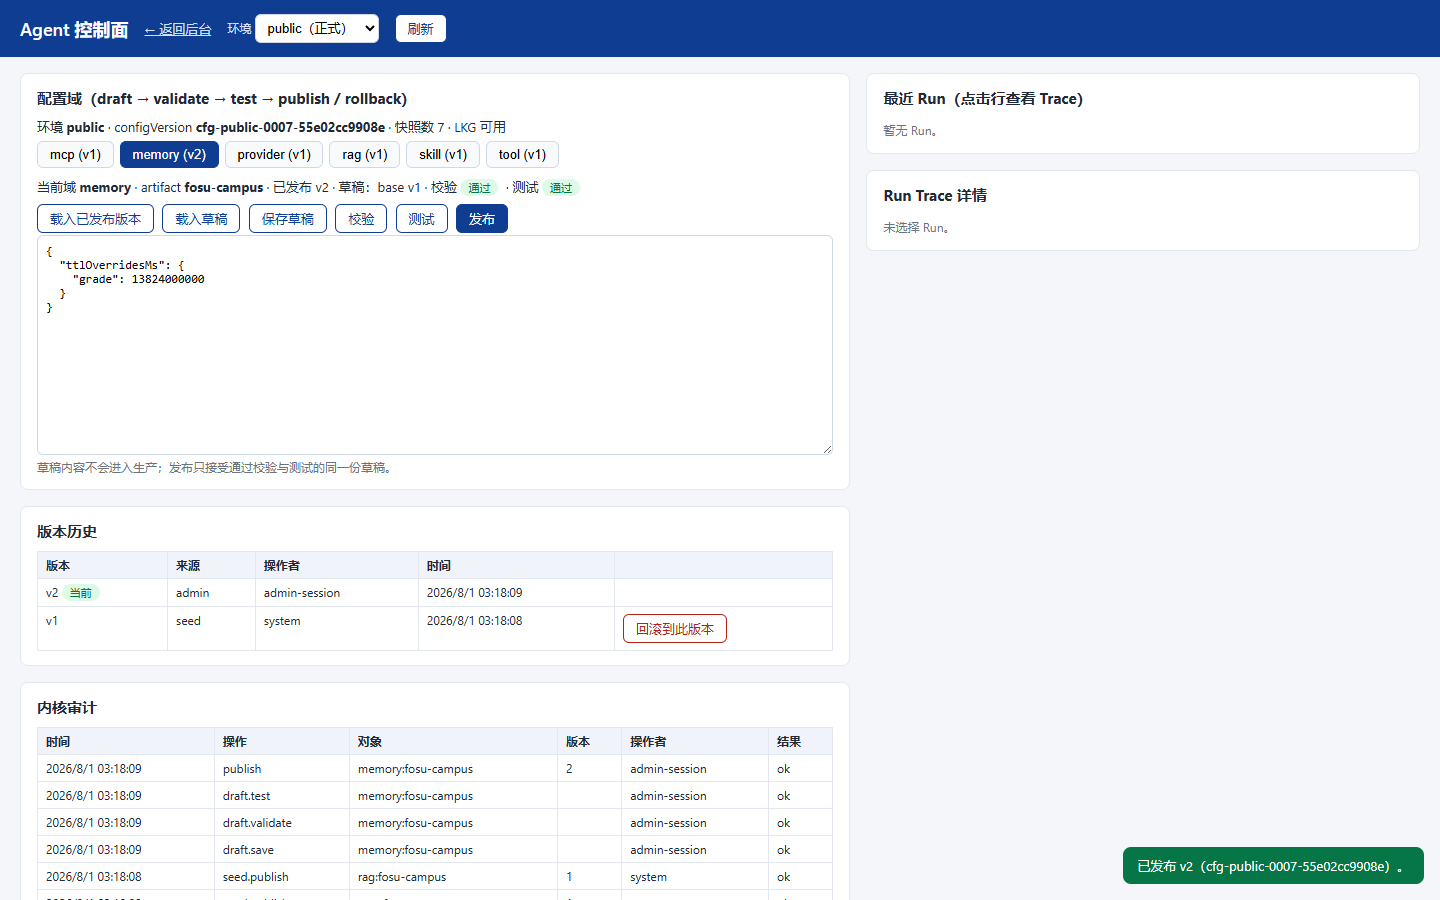
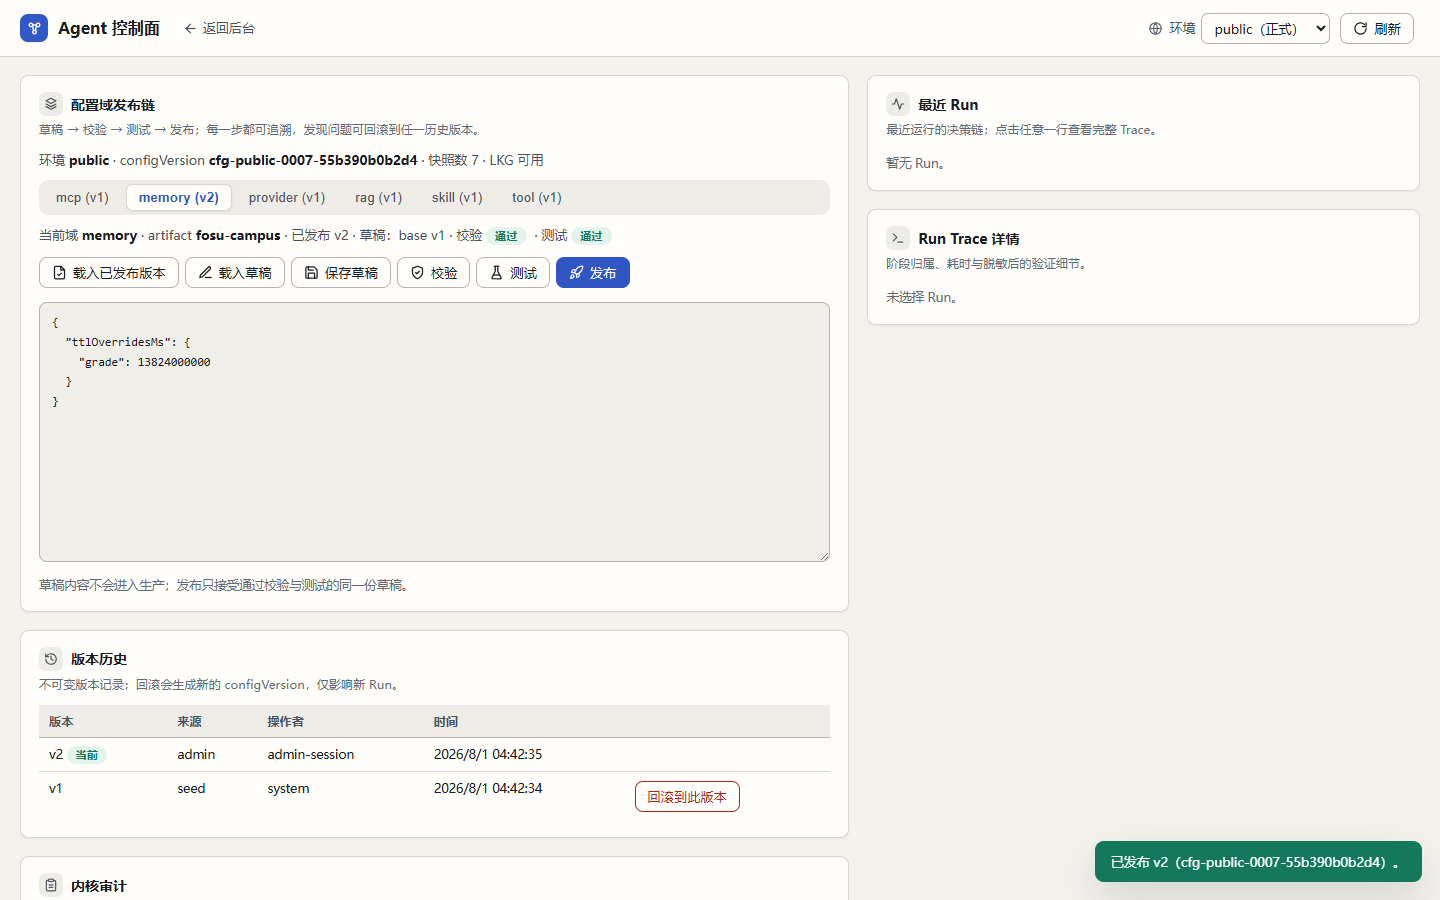
feat(agent): polish agent control plane UI with legacy visual tokens
Redesign of apps/agent-admin/public/agent-platform.html guided by the local frontend-design / open-design skills: warm-paper tokens ported from the legacy admin, sticky top bar with an SVG brand mark, 15 inline SVG icons replacing all emoji, segmented domain tabs, three-state buttons, hover-to-pause toasts (WCAG 2.2.1, the only JS behavior change), aria/letter-spacing/accent discipline. All element IDs, JS logic and fetch paths unchanged. Verified by test:agent-config-plane-browser (publish -> new run bound -> rollback, real browser, PASS inside full gates) and real-harness screenshots at 1440/390. Governance §14 records the mandatory UI design-skill rule. Evidence PNGs refreshed by the p4e browser test run.

diff --git a/apps/agent-admin/public/agent-platform.html b/apps/agent-admin/public/agent-platform.html
@@ -6,89 +6,175 @@
 <title>Agent 控制面</title>
 <script src="runtime-config.js"></script>
 <style>
-  :root { color-scheme: light; }
+  :root {
+    color-scheme: light;
+    --page-bg: #f4f2ed;
+    --surface: #fbfaf7;
+    --surface-raised: #fffefa;
+    --surface-muted: #eeece6;
+    --border: #d9d5cc;
+    --border-strong: #b8b2a7;
+    --text-primary: #181b20;
+    --text-secondary: #4b515b;
+    --text-muted: #626a75;
+    --primary: #3158c7;
+    --primary-hover: #2447a9;
+    --primary-soft: #e7ecfb;
+    --on-primary: #ffffff;
+    --success: #14795a;
+    --success-soft: #e5f3ed;
+    --warning: #9a5d08;
+    --warning-soft: #f8edd9;
+    --danger: #b42318;
+    --danger-soft: #f8e6e3;
+    --shadow: 0 1px 2px rgba(31, 28, 23, 0.06);
+    --shadow-lg: 0 18px 42px rgba(31, 28, 23, 0.16);
+    --code-bg: #f0eee8;
+    --table-hover: #f0f3fb;
+    --focus-ring: rgba(49, 88, 199, 0.3);
+    --radius: 9px;
+    --font-family: Inter, "SF Pro Text", "PingFang SC", "Microsoft YaHei", "Noto Sans CJK SC", ui-sans-serif, system-ui, -apple-system, BlinkMacSystemFont, "Segoe UI", sans-serif;
+    --font-mono: "SFMono-Regular", Consolas, "Liberation Mono", Menlo, "Courier New", monospace;
+    --transition: color 180ms cubic-bezier(0.4, 0, 0.2, 1), background-color 180ms cubic-bezier(0.4, 0, 0.2, 1), border-color 180ms cubic-bezier(0.4, 0, 0.2, 1), box-shadow 180ms cubic-bezier(0.4, 0, 0.2, 1);
+  }
   * { box-sizing: border-box; }
-  body { margin: 0; font-family: "Segoe UI", "Microsoft YaHei", sans-serif; background: #f4f6fa; color: #1f2937; }
-  header { background: #0f3d91; color: #fff; padding: 12px 20px; display: flex; align-items: center; gap: 16px; flex-wrap: wrap; }
-  header h1 { font-size: 18px; margin: 0; font-weight: 600; }
-  header a { color: #cfe0ff; font-size: 13px; }
-  header select { margin-left: auto; }
-  main { padding: 16px 20px; display: grid; grid-template-columns: minmax(0, 3fr) minmax(0, 2fr); gap: 16px; }
+  body { margin: 0; font-family: var(--font-family); background: var(--page-bg); color: var(--text-primary); line-height: 1.5; }
+  ::selection { background: var(--primary-soft); color: var(--text-primary); }
+  ::-webkit-scrollbar { width: 10px; height: 10px; }
+  ::-webkit-scrollbar-track { background: var(--surface-muted); }
+  ::-webkit-scrollbar-thumb { background: var(--border-strong); border: 2px solid var(--surface-muted); border-radius: 999px; }
+  :focus-visible { outline: 2px solid var(--primary); outline-offset: 2px; }
+  @media (prefers-reduced-motion: reduce) {
+    *, *::before, *::after {
+      animation-duration: 0.01ms !important;
+      animation-iteration-count: 1 !important;
+      scroll-behavior: auto !important;
+      transition-duration: 0.01ms !important;
+    }
+  }
+  .icon { width: 15px; height: 15px; flex: none; }
+
+  header { position: sticky; top: 0; z-index: 5; background: var(--surface-raised); border-bottom: 1px solid var(--border); padding: 0 20px; min-height: 57px; display: flex; align-items: center; gap: 14px; flex-wrap: wrap; }
+  .brand { display: flex; align-items: center; gap: 10px; padding: 10px 0; }
+  .brand-mark { width: 28px; height: 28px; border-radius: 8px; background: var(--primary); color: var(--on-primary); display: inline-flex; align-items: center; justify-content: center; box-shadow: var(--shadow); }
+  .brand-mark svg { width: 17px; height: 17px; }
+  header h1 { font-size: 16px; margin: 0; font-weight: 600; }
+  .nav-link { display: inline-flex; align-items: center; gap: 5px; color: var(--text-secondary); font-size: 13px; text-decoration: none; padding: 5px 9px; border-radius: 7px; transition: var(--transition); }
+  .nav-link:hover { color: var(--primary); background: var(--primary-soft); }
+  .header-actions { margin-left: auto; display: flex; align-items: center; gap: 10px; flex-wrap: wrap; padding: 8px 0; }
+  .env-label { display: inline-flex; align-items: center; gap: 6px; font-size: 13px; color: var(--text-secondary); }
+  .env-label .icon { color: var(--text-muted); }
+
+  main { padding: 18px 20px 28px; max-width: 1480px; margin: 0 auto; display: grid; grid-template-columns: minmax(0, 3fr) minmax(0, 2fr); gap: 18px; }
   @media (max-width: 1100px) { main { grid-template-columns: 1fr; } }
-  section { background: #fff; border: 1px solid #e3e8f0; border-radius: 8px; padding: 14px 16px; margin-bottom: 16px; }
-  h2 { font-size: 15px; margin: 0 0 10px; }
-  .tabs { display: flex; gap: 6px; flex-wrap: wrap; margin-bottom: 10px; }
-  .tabs button { border: 1px solid #cfd8e6; background: #f8fafc; border-radius: 6px; padding: 5px 12px; cursor: pointer; font-size: 13px; }
-  .tabs button[aria-selected="true"] { background: #0f3d91; color: #fff; border-color: #0f3d91; }
-  button.action { border: 1px solid #0f3d91; background: #fff; color: #0f3d91; border-radius: 6px; padding: 5px 12px; cursor: pointer; font-size: 13px; margin: 2px 4px 2px 0; }
-  button.action.primary { background: #0f3d91; color: #fff; }
-  button.action.danger { border-color: #b42318; color: #b42318; }
-  button.action:disabled { opacity: 0.5; cursor: not-allowed; }
-  textarea { width: 100%; min-height: 220px; font-family: Consolas, "Courier New", monospace; font-size: 12px; border: 1px solid #cfd8e6; border-radius: 6px; padding: 8px; }
-  table { border-collapse: collapse; width: 100%; font-size: 12px; }
-  th, td { border: 1px solid #e3e8f0; padding: 5px 8px; text-align: left; vertical-align: top; }
-  th { background: #f0f4fa; }
-  .muted { color: #6b7280; font-size: 12px; }
-  .status-line { font-size: 13px; margin: 6px 0; }
-  .pill { display: inline-block; border-radius: 999px; padding: 1px 8px; font-size: 11px; background: #e8eefc; color: #0f3d91; margin-right: 4px; }
-  .pill.ok { background: #dcfae6; color: #067647; }
-  .pill.bad { background: #fee4e2; color: #b42318; }
-  #toast { position: fixed; right: 16px; bottom: 16px; max-width: 420px; padding: 10px 14px; border-radius: 8px; color: #fff; font-size: 13px; display: none; z-index: 10; }
-  #toast.success { background: #067647; }
-  #toast.error { background: #b42318; }
-  pre.details { background: #f8fafc; border: 1px solid #e3e8f0; border-radius: 6px; padding: 8px; font-size: 11px; max-height: 260px; overflow: auto; white-space: pre-wrap; word-break: break-all; }
+  @media (max-width: 720px) { main { padding: 14px 12px 24px; } header { padding: 0 12px; } }
+
+  section { background: var(--surface-raised); border: 1px solid var(--border); border-radius: var(--radius); box-shadow: var(--shadow); padding: 16px 18px; margin-bottom: 18px; }
+  h2 { display: flex; align-items: center; gap: 8px; font-size: 14px; font-weight: 600; margin: 0 0 4px; }
+  .h2-icon { display: inline-flex; align-items: center; justify-content: center; width: 24px; height: 24px; border-radius: 7px; background: var(--surface-muted); color: var(--text-secondary); }
+  .h2-icon svg { width: 14px; height: 14px; }
+  .section-desc { font-size: 12px; color: var(--text-muted); margin: 0 0 12px; letter-spacing: 0.01em; }
+
+  .tabs { display: flex; gap: 4px; flex-wrap: wrap; margin-bottom: 10px; padding: 4px; background: var(--surface-muted); border-radius: 10px; }
+  .tabs button { border: 1px solid transparent; background: transparent; border-radius: 7px; padding: 5px 12px; cursor: pointer; font-size: 13px; color: var(--text-secondary); letter-spacing: 0.02em; transition: var(--transition); }
+  .tabs button:hover { color: var(--primary); background: var(--surface-raised); }
+  .tabs button[aria-selected="true"] { background: var(--surface-raised); color: var(--primary); border-color: var(--border); box-shadow: var(--shadow); font-weight: 600; }
+
+  .btn-row { margin: 10px 0 12px; display: flex; flex-wrap: wrap; gap: 2px 0; }
+  button.action { display: inline-flex; align-items: center; gap: 6px; border: 1px solid var(--border-strong); background: var(--surface-raised); color: var(--text-primary); border-radius: 8px; padding: 6px 12px; cursor: pointer; font-size: 13px; font-weight: 500; font-family: var(--font-family); letter-spacing: 0.02em; margin: 2px 6px 2px 0; transition: var(--transition); }
+  button.action:hover { border-color: var(--primary); color: var(--primary); background: var(--primary-soft); }
+  button.action.primary { background: var(--primary); border-color: var(--primary); color: var(--on-primary); }
+  button.action.primary:hover { background: var(--primary-hover); border-color: var(--primary-hover); }
+  button.action.danger { border-color: var(--danger); color: var(--danger); }
+  button.action.danger:hover { background: var(--danger-soft); border-color: var(--danger); color: var(--danger); }
+  button.action:disabled { opacity: 0.55; cursor: not-allowed; }
+
+  textarea { width: 100%; min-height: 260px; font-family: var(--font-mono); font-size: 12px; line-height: 1.65; border: 1px solid var(--border-strong); border-radius: 8px; padding: 10px 12px; background: var(--code-bg); color: var(--text-primary); transition: var(--transition); resize: vertical; }
+  textarea:focus { outline: none; border-color: var(--primary); box-shadow: 0 0 0 3px var(--focus-ring); background: var(--surface-raised); }
+
+  table { border-collapse: collapse; width: 100%; font-size: 12.5px; }
+  th, td { padding: 7px 10px; text-align: left; vertical-align: top; border-bottom: 1px solid var(--border); }
+  tbody tr:last-child td { border-bottom: none; }
+  th { background: var(--surface-muted); color: var(--text-secondary); font-weight: 600; font-size: 12px; letter-spacing: 0.02em; border-bottom: 1px solid var(--border-strong); }
+  td { font-variant-numeric: tabular-nums; }
+  tbody tr { transition: var(--transition); }
+  tbody tr:hover { background: var(--table-hover); }
   .run-row { cursor: pointer; }
-  .run-row:hover { background: #f0f4fa; }
-  select, input[type="text"] { border: 1px solid #cfd8e6; border-radius: 6px; padding: 5px 8px; font-size: 13px; }
+
+  .muted { color: var(--text-muted); font-size: 12.5px; }
+  #editorHint { margin-top: 8px; }
+  .status-line { font-size: 13px; margin: 6px 0 10px; color: var(--text-secondary); }
+  .status-line b { color: var(--text-primary); font-weight: 600; }
+  .pill { display: inline-flex; align-items: center; border-radius: 999px; padding: 1px 9px; font-size: 11px; font-weight: 600; letter-spacing: 0.02em; background: var(--primary-soft); color: var(--primary); margin-right: 4px; }
+  .pill.ok { background: var(--success-soft); color: var(--success); }
+  .pill.bad { background: var(--danger-soft); color: var(--danger); }
+
+  #toast { position: fixed; right: 18px; bottom: 18px; max-width: 420px; padding: 11px 16px; border-radius: var(--radius); color: #fff; font-size: 13px; display: none; z-index: 10; box-shadow: var(--shadow-lg); animation: toast-in 180ms cubic-bezier(0.4, 0, 0.2, 1); }
+  #toast.success { background: var(--success); }
+  #toast.error { background: var(--danger); }
+  @keyframes toast-in { from { opacity: 0; transform: translateY(6px); } to { opacity: 1; transform: translateY(0); } }
+
+  pre.details { background: var(--code-bg); border: 1px solid var(--border); border-radius: 7px; padding: 9px 11px; font-size: 11px; font-family: var(--font-mono); max-height: 260px; overflow: auto; white-space: pre-wrap; word-break: break-all; }
+  select, input[type="text"] { border: 1px solid var(--border-strong); border-radius: 7px; padding: 5px 8px; font-size: 13px; background: var(--surface-raised); color: var(--text-primary); font-family: var(--font-family); transition: var(--transition); }
 </style>
 </head>
 <body>
 <header>
-  <h1>Agent 控制面</h1>
-  <a href="/admin/dashboard" id="dashboardLink">← 返回后台</a>
-  <label class="muted" style="color:#cfe0ff">环境
-    <select id="envSelect">
-      <option value="public">public（正式）</option>
-      <option value="trial">trial（体验）</option>
-      <option value="dev" selected>dev（开发）</option>
-    </select>
-  </label>
-  <button class="action" id="btnRefresh" type="button">刷新</button>
+  <div class="brand">
+    <span class="brand-mark" aria-hidden="true"><svg viewBox="0 0 24 24" fill="none" stroke="currentColor" stroke-width="2" stroke-linecap="round" stroke-linejoin="round"><circle cx="7" cy="7" r="2.4"/><circle cx="17" cy="7" r="2.4"/><circle cx="12" cy="17" r="2.4"/><path d="M9.3 8.3 10.8 15"/><path d="M14.7 8.3 13.2 15"/><path d="M9.4 7h5.2"/></svg></span>
+    <h1>Agent 控制面</h1>
+  </div>
+  <a href="/admin/dashboard" id="dashboardLink" class="nav-link"><svg class="icon" viewBox="0 0 24 24" fill="none" stroke="currentColor" stroke-width="2" stroke-linecap="round" stroke-linejoin="round" aria-hidden="true"><path d="M19 12H5"/><path d="m12 19-7-7 7-7"/></svg>返回后台</a>
+  <div class="header-actions">
+    <label class="env-label" for="envSelect"><svg class="icon" viewBox="0 0 24 24" fill="none" stroke="currentColor" stroke-width="2" stroke-linecap="round" stroke-linejoin="round" aria-hidden="true"><circle cx="12" cy="12" r="9"/><path d="M3 12h18"/><path d="M12 3a14.5 14.5 0 0 0 0 18 14.5 14.5 0 0 0 0-18"/></svg>环境
+      <select id="envSelect">
+        <option value="public">public（正式）</option>
+        <option value="trial">trial（体验）</option>
+        <option value="dev" selected>dev（开发）</option>
+      </select>
+    </label>
+    <button class="action" id="btnRefresh" type="button"><svg class="icon" viewBox="0 0 24 24" fill="none" stroke="currentColor" stroke-width="2" stroke-linecap="round" stroke-linejoin="round" aria-hidden="true"><path d="M21 12a9 9 0 1 1-2.64-6.36"/><path d="M21 3v6h-6"/></svg>刷新</button>
+  </div>
 </header>
 <main>
   <div>
-    <section id="configSection">
-      <h2>配置域（draft → validate → test → publish / rollback）</h2>
+    <section id="configSection" aria-labelledby="h2-config">
+      <h2 id="h2-config"><span class="h2-icon" aria-hidden="true"><svg viewBox="0 0 24 24" fill="none" stroke="currentColor" stroke-width="2" stroke-linecap="round" stroke-linejoin="round"><path d="m12 2 8.5 4.5L12 11 3.5 6.5 12 2z"/><path d="m3.5 12 8.5 4.5 8.5-4.5"/><path d="m3.5 16.5 8.5 4.5 8.5-4.5"/></svg></span>配置域发布链</h2>
+      <p class="section-desc">草稿 → 校验 → 测试 → 发布；每一步都可追溯，发现问题可回滚到任一历史版本。</p>
       <div class="status-line" id="configStatus">加载中…</div>
       <div class="tabs" id="domainTabs" role="tablist"></div>
       <div class="status-line" id="domainStatus"></div>
-      <div>
-        <button class="action" id="btnLoadPublished" type="button">载入已发布版本</button>
-        <button class="action" id="btnLoadDraft" type="button">载入草稿</button>
-        <button class="action" id="btnSaveDraft" type="button">保存草稿</button>
-        <button class="action" id="btnValidate" type="button">校验</button>
-        <button class="action" id="btnTest" type="button">测试</button>
-        <button class="action primary" id="btnPublish" type="button">发布</button>
+      <div class="btn-row">
+        <button class="action" id="btnLoadPublished" type="button"><svg class="icon" viewBox="0 0 24 24" fill="none" stroke="currentColor" stroke-width="2" stroke-linecap="round" stroke-linejoin="round" aria-hidden="true"><path d="M14 2H6a2 2 0 0 0-2 2v16a2 2 0 0 0 2 2h12a2 2 0 0 0 2-2V8z"/><path d="M14 2v6h6"/><path d="m9 15 2 2 4-4"/></svg>载入已发布版本</button>
+        <button class="action" id="btnLoadDraft" type="button"><svg class="icon" viewBox="0 0 24 24" fill="none" stroke="currentColor" stroke-width="2" stroke-linecap="round" stroke-linejoin="round" aria-hidden="true"><path d="M12 20h9"/><path d="M16.5 3.5a2.12 2.12 0 0 1 3 3L7 19l-4 1 1-4Z"/></svg>载入草稿</button>
+        <button class="action" id="btnSaveDraft" type="button"><svg class="icon" viewBox="0 0 24 24" fill="none" stroke="currentColor" stroke-width="2" stroke-linecap="round" stroke-linejoin="round" aria-hidden="true"><path d="M19 21H5a2 2 0 0 1-2-2V5a2 2 0 0 1 2-2h11l5 5v11a2 2 0 0 1-2 2z"/><path d="M17 21v-8H7v8"/><path d="M7 3v5h8"/></svg>保存草稿</button>
+        <button class="action" id="btnValidate" type="button"><svg class="icon" viewBox="0 0 24 24" fill="none" stroke="currentColor" stroke-width="2" stroke-linecap="round" stroke-linejoin="round" aria-hidden="true"><path d="M12 22s8-4 8-10V5l-8-3-8 3v7c0 6 8 10 8 10z"/><path d="m9 12 2 2 4-4"/></svg>校验</button>
+        <button class="action" id="btnTest" type="button"><svg class="icon" viewBox="0 0 24 24" fill="none" stroke="currentColor" stroke-width="2" stroke-linecap="round" stroke-linejoin="round" aria-hidden="true"><path d="M10 2v7.53a2 2 0 0 1-.21.89L4.72 20.55a1 1 0 0 0 .9 1.45h12.76a1 1 0 0 0 .9-1.45l-5.07-10.13a2 2 0 0 1-.21-.89V2"/><path d="M8.5 2h7"/><path d="M7 16h10"/></svg>测试</button>
+        <button class="action primary" id="btnPublish" type="button"><svg class="icon" viewBox="0 0 24 24" fill="none" stroke="currentColor" stroke-width="2" stroke-linecap="round" stroke-linejoin="round" aria-hidden="true"><path d="M4.5 16.5c-1.5 1.26-2 5-2 5s3.74-.5 5-2c.71-.84.7-2.13-.09-2.91a2.18 2.18 0 0 0-2.91-.09z"/><path d="m12 15-3-3a22 22 0 0 1 2-3.95A12.88 12.88 0 0 1 22 2c0 2.72-.78 7.5-6 11a22.35 22.35 0 0 1-4 2z"/><path d="M9 12H4s.55-3.03 2-4c1.62-1.08 5 0 5 0"/><path d="M12 15v5s3.03-.55 4-2c1.08-1.62 0-5 0-5"/></svg>发布</button>
       </div>
-      <textarea id="draftEditor" spellcheck="false" placeholder="{}"></textarea>
+      <textarea id="draftEditor" spellcheck="false" placeholder="{}" aria-label="配置草稿 JSON 编辑器" aria-describedby="editorHint"></textarea>
       <div class="muted" id="editorHint">草稿内容不会进入生产；发布只接受通过校验与测试的同一份草稿。</div>
     </section>
-    <section>
-      <h2>版本历史</h2>
+    <section aria-labelledby="h2-versions">
+      <h2 id="h2-versions"><span class="h2-icon" aria-hidden="true"><svg viewBox="0 0 24 24" fill="none" stroke="currentColor" stroke-width="2" stroke-linecap="round" stroke-linejoin="round"><path d="M3 12a9 9 0 1 0 3-6.7L3 8"/><path d="M3 3v5h5"/><path d="M12 7v5l3.5 2"/></svg></span>版本历史</h2>
+      <p class="section-desc">不可变版本记录；回滚会生成新的 configVersion，仅影响新 Run。</p>
       <div id="versionHistory"><span class="muted">加载中…</span></div>
     </section>
-    <section>
-      <h2>内核审计</h2>
+    <section aria-labelledby="h2-audit">
+      <h2 id="h2-audit"><span class="h2-icon" aria-hidden="true"><svg viewBox="0 0 24 24" fill="none" stroke="currentColor" stroke-width="2" stroke-linecap="round" stroke-linejoin="round"><rect x="8" y="2" width="8" height="4" rx="1"/><path d="M16 4h2a2 2 0 0 1 2 2v14a2 2 0 0 1-2 2H6a2 2 0 0 1-2-2V6a2 2 0 0 1 2-2h2"/><path d="M9 12h6"/><path d="M9 16h6"/></svg></span>内核审计</h2>
+      <p class="section-desc">配置面全部写操作的审计流水（已脱敏）。</p>
       <div id="auditList"><span class="muted">加载中…</span></div>
     </section>
   </div>
   <div>
-    <section>
-      <h2>最近 Run（点击行查看 Trace）</h2>
+    <section aria-labelledby="h2-runs">
+      <h2 id="h2-runs"><span class="h2-icon" aria-hidden="true"><svg viewBox="0 0 24 24" fill="none" stroke="currentColor" stroke-width="2" stroke-linecap="round" stroke-linejoin="round"><path d="M22 12h-4l-3 9L9 3l-3 9H2"/></svg></span>最近 Run</h2>
+      <p class="section-desc">最近运行的决策链；点击任意一行查看完整 Trace。</p>
       <div id="runList"><span class="muted">加载中…</span></div>
     </section>
-    <section>
-      <h2>Run Trace 详情</h2>
+    <section aria-labelledby="h2-trace">
+      <h2 id="h2-trace"><span class="h2-icon" aria-hidden="true"><svg viewBox="0 0 24 24" fill="none" stroke="currentColor" stroke-width="2" stroke-linecap="round" stroke-linejoin="round"><path d="m4 17 6-6-6-6"/><path d="M12 19h8"/></svg></span>Run Trace 详情</h2>
+      <p class="section-desc">阶段归属、耗时与脱敏后的验证细节。</p>
       <div id="runDetail"><span class="muted">未选择 Run。</span></div>
     </section>
   </div>
@@ -122,12 +208,21 @@
 
   function $(id) { return document.getElementById(id); }
 
+  var toastTimer = null;
+  function scheduleToastHide(delay) {
+    if (toastTimer) clearTimeout(toastTimer);
+    toastTimer = setTimeout(function () { $("toast").style.display = "none"; }, delay);
+  }
+
   function showToast(message, kind) {
     var toast = $("toast");
     toast.textContent = message;
     toast.className = kind === "error" ? "error" : "success";
     toast.style.display = "block";
-    setTimeout(function () { toast.style.display = "none"; }, 4200);
+    scheduleToastHide(4200);
+    // WCAG 2.2.1：自动消失的提示在悬停时暂停计时，移开后给予充足剩余时间。
+    toast.onmouseenter = function () { if (toastTimer) clearTimeout(toastTimer); };
+    toast.onmouseleave = function () { scheduleToastHide(2400); };
   }
 
   function redirectToLogin() {

diff --git a/specs/xiaofu-agent-product-platform/execution-governance.md b/specs/xiaofu-agent-product-platform/execution-governance.md
@@ -55,3 +55,16 @@ A staging 先行 → 生产；B 无 staging 则 canary（新容器/备用端口/
 ## 13. 环境条件式执行
 
 Docker Desktop 可用则本地 amd64 build+smoke，arm64 归 CI buildx/QEMU 或 arm64 Runner；DevTools CLI 可用且已登录则真实 smoke，需扫码则标记未验证不阻塞；真机/体验版生成交人工清单，不冒充完成，除直接依赖真机行为且风险不可控外不阻塞服务端/PR/合并/安全部署。
+
+## 14. UI 设计纪律（用户补充授权）
+
+凡新增或实质改动的 UI（小程序页面/组件、后台页面、控制面），必须先调用本地设计 skill 辅助设计再实现：`frontend-design`（`C:/Users/Katelya/.agents/skills/frontend-design`，视觉方向/文案/签名元素）与 `open-design`（`C:/Users/Katelya/.agents/skills/open-design/craft/`，color/typography/state-coverage/animation-discipline/accessibility-baseline/laws-of-ux/anti-ai-slop 规则手册）为主，`ui-ux-pro-max`（设计系统检索）为辅；要求：
+
+- 与既有整体 UI 一致统一（后台沿用 Legacy admin 视觉语言与设计令牌，小程序沿用现有设计令牌与组件体系）；brief 已钉死视觉方向时以 brief 为准，不用 skill 的通用默认配色覆盖产品既有令牌；
+- 直观、简洁、美观，以成熟前端设计标准打磨布局、交互与文案（中文文案一致、无机器味、动词主导，按钮措辞与结果反馈同名）；
+- 图标一律使用 SVG（内联 Heroicons/Lucide 风格单线图标或项目既有 SVG），禁止用 emoji 充当图标，hover/焦点有反馈且不引发布局位移，过渡 150–300ms；
+- accent 纪律：每屏主 accent 可见用途 ≤2 处（brand mark + 主 CTA/选中态），语义色仅表状态；禁 Tailwind 默认 indigo、禁两停“信任渐变”；
+- 字排纪律：UI 标签/按钮 letter-spacing ≥0.02em，全大写 ≥0.06em，权重 400/500/600 三档，字号 ≤8 级；
+- 状态覆盖：加载/空/错误/有数据/边界五态齐备，toast 自动消失须可悬停暂停（WCAG 2.2.1）；
+- 可访问性：对比度 ≥4.5:1、表单控件有标签、尊重 prefers-reduced-motion、色彩不作唯一信息载体、焦点可见、原生语义元素优先；
+- 交付前过 skill 的 Pre-Delivery Checklist；浏览器/小程序可验证时附真实渲染证据（截图或 DevTools）。
